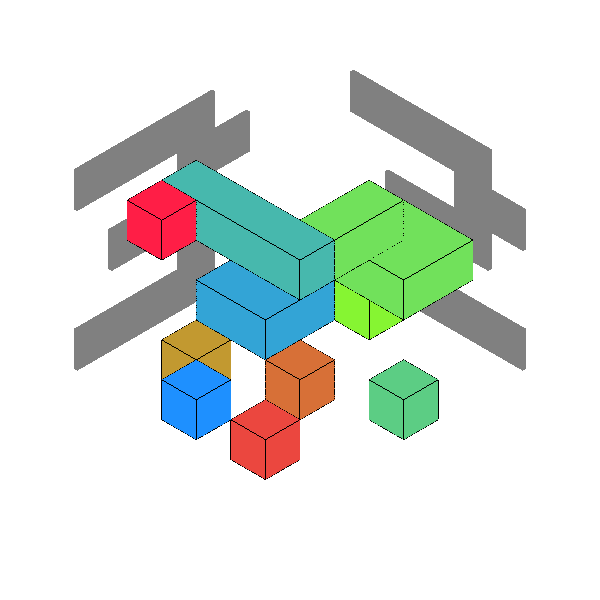
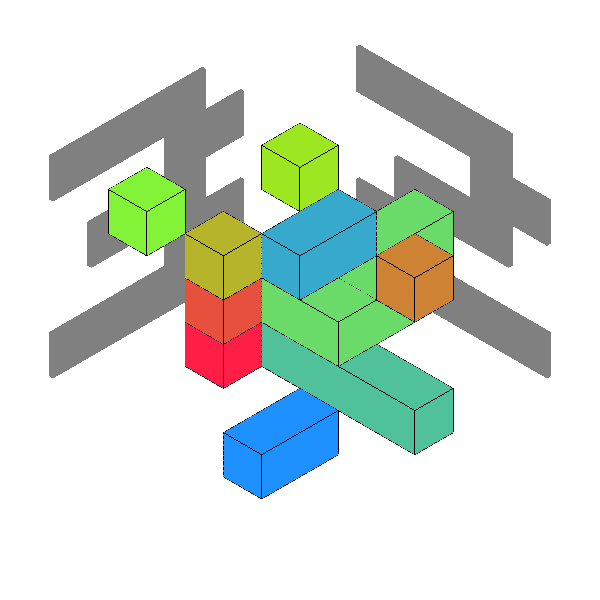
個数を変える、時間いっぱいまで回す
629818596495
2,053,189,180

Changed region(s): [[0.06, 0.06, 0.93, 0.84], [0.66, 0.66, 0.69, 0.69]]

diff --git a/A.cpp b/A.cpp
@@ -3,6 +3,8 @@
 #include <string>
 #include <utility>
 #include <algorithm>
+#include <chrono>
+#include <cstdio>
 using namespace std;
 
 struct Point
@@ -64,6 +66,7 @@ pair<vector<int>, vector<int>> expand(
 
     int n = (int)P1.size();
     vector<vector<Point>> B(n);
+    vector<int> checked(n);
     vector<int> A1(D*D*D), A2(D*D*D);
 
     for (int i=0; i<n; i++)
@@ -78,7 +81,10 @@ pair<vector<int>, vector<int>> expand(
         int i;
         Point p;
         for (i=0; i<n; i++)
-            for (Point o: B[i])
+            for (; checked[i]<(int)B[i].size(); checked[i]++)
+            {
+                Point o = B[i][checked[i]];
+
                 for (Point d: DD)
                 {
                     Point p1 = P1[i]+o+d;
@@ -102,6 +108,7 @@ pair<vector<int>, vector<int>> expand(
                     p = o+d;
                     goto ok;
                 }
+            }
         break;
     ok:;
         B[i].push_back(p);
@@ -212,15 +219,45 @@ int main()
     vector<int> F2 = read2D(D);
     vector<int> R2 = read2D(D);
 
+    chrono::system_clock::time_point start = chrono::system_clock::now();
+
     vector<int> bestA1;
     vector<int> bestA2;
     Score bestScore;
     bestScore.score = 999999999999999999;
 
-    for (int iter=0; iter<256; iter++)
+    int volume = D*D*D;
+    for (int i=0; i<2; i++)
     {
+        vector<int> &F = i==0?F1:F2;
+        vector<int> &R = i==0?R1:R2;
+        int v = 0;
+        for (int z=0; z<D; z++)
+        {
+            int w = 0;
+            for (int x=0; x<D; x++)
+                if (F[z*D+x]!=0)
+                    w++;
+            int h = 0;
+            for (int y=0; y<D; y++)
+                if (R[z*D+y]!=0)
+                    h++;
+            v += w*h;
+        }
+        volume = min(volume, v);
+    }
+
+    int iter;
+    for (iter=0; ; iter++)
+    {
+        chrono::system_clock::time_point now = chrono::system_clock::now();
+        double time = chrono::duration_cast<chrono::nanoseconds>(now-start).count()*1e-9/5.0;
+        if (time>=1.)
+            break;
+
+        int n = xor64()%(volume-1)+1;
         vector<Point> P1, P2;
-        for (int i=0; i<5; i++)
+        for (int i=0; i<n; i++)
         {
             Point p1, p2;
             while (true)
@@ -287,5 +324,16 @@ int main()
         cout<<(i==0?"":" ")<<bestA2[i];
     cout<<endl;
 
-    cerr<<bestScore.score<<endl;
+    chrono::system_clock::time_point now = chrono::system_clock::now();
+    double time = chrono::duration_cast<chrono::nanoseconds>(now-start).count()*1e-9;
+    fprintf(
+        stderr,
+        "%3d %.3f %8d %12lld %2d %2d %2d\n",
+        D,
+        time,
+        iter,
+        bestScore.score,
+        bestScore.r1,
+        bestScore.r2,
+        (int)bestScore.V.size());
 }
